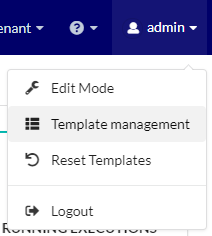
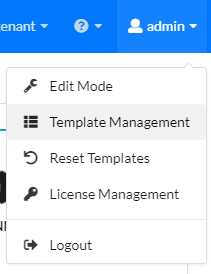
Updated template management description (CY-1006 - Remove dependency between templates/pages and stage database)

diff --git a/content/working_with/console/templates-mgmt.md b/content/working_with/console/templates-mgmt.md
@@ -16,7 +16,7 @@ In Cloudify’s premium edition, The UI framework allows sys-admins to define wh
 ## Default Templates
 Cloudify provides by default the following templates:
 
-***Initial-template-admin*** - Applies to sys-admin users in all the tenants, and includes the following pages: 
+***main-sys_admin*** - Applies to sys-admin users in all the tenants, and includes the following pages: 
 
 * **Dashboard**  - An overview of the existing executions and system statistics. 
 * **Cloudify Catalog** - Contains Blueprints catalog derived from a github repository and Plugins catalog derived from JSON file. By default, Blueprints catalog presents the Cloudify Examples catalog. 
@@ -28,18 +28,19 @@ Cloudify provides by default the following templates:
 * **Statistics** - Predefined, commonly used statistics graphs derived from the diamond plugin metrics. 
 * **Logs** - Events/Logs table with multiple filters
 
-***Initial-template*** - Applies to all non-admin users in all the tenants to which they have access, and includes the following pages: 
+***main-default*** - Applies to all non-admin users in all the tenants to which they have access, and includes the following pages: 
 
 * **Dashboard**  - An overview of the existing executions. 
 * **Cloudify Catalog** - Contains Blueprints catalog derived from a github repository and Plugins catalog derived from JSON file. By default, Blueprints catalog presents the Cloudify Examples catalog. 
 * **Local Blueprints** - A list of all the blueprints which were uploaded to the current tenant.  From this page you can access the Blueprint drill-down page, by clicking on a specific blueprint.   
 * **Deployments** - A list of all deployments created in the current tenant, and the statuses of their nodes. From this page you can access the Deployment drill-down page, by clicking on a specific deployment.
+* **System Resources** - Plugins, Secrets and Agents management.
 * **Logs** - Events/Logs table with multiple filters 
 
 The users permissions to perform actions in these pages depend on the roles they have on the tenant.
 
 ## Custom Templates
-In order to create new templates, sys-admins can choose the “Template Management’ option in the user menu: 
+In order to create new templates, sys-admins can choose the **Template Management** option in the user menu: 
 
 ![Template Management]( /images/ui/templatesMgmt/templates_menu.png )
 
@@ -66,4 +67,10 @@ Upon choosing the edit option, the page will be open in “edit mode”, in whic
 Once you are happy with your page, choose “save” in the page management menu, and once back in the Template Management window you can now choose a template and add the page to it. 
 Once  you are done creating and editing the templates and pages, choose “Close” from the top right corner. 
 
+### Sharing templates
 
+{{% tip %}}
+Access to Cloudify Manager machine necessary. Only for advanced users.
+{{% /tip %}}    
+
+It's possible to use custom templates and pages across different Cloudify Manager's by copying necessary files (located in `<cloudify-stage-directory>/userData/templates`) or with use of snapshots.
